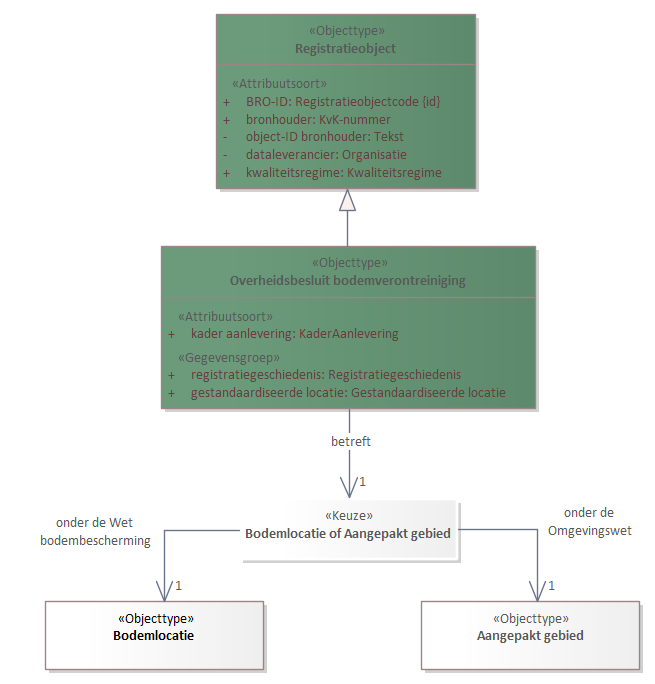
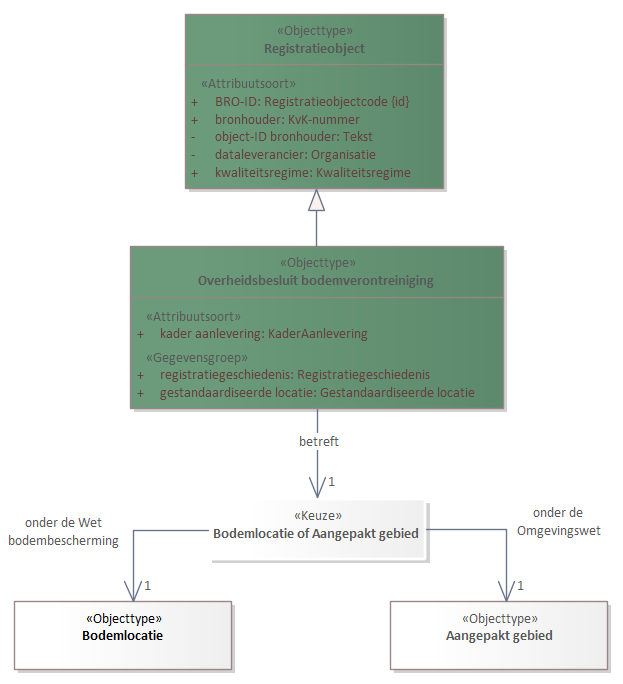
Conceptualmodel-OverheidsbesluitbodemverontreinigingSLD-1.0-3-20240925-20251210-111041

diff --git a/data/SLD-cat.msword.html b/data/SLD-cat.msword.html
@@ -6,7 +6,7 @@
                     table.list tbody tr th {background-color: #d3d3d3;}
                     table.list tbody tr th,
                     table.list tbody tr td {border: 1px solid black;}
-                </style></head><body><p>Conceptual model/Overheidsbesluit bodemverontreiniging SLD/20240925</p><p>Imvertor: Nightly-build.0</p><p>Model release: Conceptualmodel-OverheidsbesluitbodemverontreinigingSLD-1.0-3-20240925-20251210-110606</p><hr><section><h1>Artikel 1 Definitie van registratieobject, entiteiten en attributen</h1><section><h2>Registratieobject</h2><section id="global_class_Model_Registratieobject">
+                </style></head><body><p>Conceptual model/Overheidsbesluit bodemverontreiniging SLD/20240925</p><p>Imvertor: Nightly-build.0</p><p>Model release: Conceptualmodel-OverheidsbesluitbodemverontreinigingSLD-1.0-3-20240925-20251210-111041</p><hr><section><h1>Artikel 1 Definitie van registratieobject, entiteiten en attributen</h1><section><h2>Registratieobject</h2><section id="global_class_Model_Registratieobject">
                <table style="width: 100%;"><colgroup style="width: 30%;"></colgroup><colgroup style="width: 70%;"></colgroup><tbody><tr><th scope="row">Naam</th><td>Overheidsbesluit bodemverontreiniging</td></tr><tr><th scope="row">Code</th><td>SLD</td></tr><tr><th scope="row">Definitie</th><td>
                         <p>Het geheel van gegevens dat betrekking heeft op 1) het saneren en ontgraven zonder saneringsdoelstelling in bodem met een kwaliteit boven de interventiewaarde waarbij bovendien de uitgegraven grond is afgevoerd (dit zijn milieubelastende activiteiten onder het regime van de Omgevingswet) of op 2) de status van een bodemlocatie in het kader van de aanpak van bodemverontreiniging onder het regime van de Wet bodembescherming.</p>
                      </td></tr><tr><th scope="row">Populatie</th><td>
@@ -15,7 +15,7 @@ Ieder object heeft ter identificatie een eigen BRO-ID.</p>
                      </td></tr></tbody></table>
             </section></section><section><h2>Het domeinmodel</h2><section><div class="imageinfo overview"><img id="EAID_C5E26ED5_B55B_4602_9FF2_6B6AAD15ECC8" src="Images/EAID_C5E26ED5_B55B_4602_9FF2_6B6AAD15ECC8.png" usemap="#imagemap-EAID_C5E26ED5_B55B_4602_9FF2_6B6AAD15ECC8" alt="Diagram: Domeinmodel - overzicht"><map name="imagemap-EAID_C5E26ED5_B55B_4602_9FF2_6B6AAD15ECC8"><area shape="rect" alt="Nazorgmaatregel" coords="1107,1271,1380,1394" href="#global_class_Model_Nazorgmaatregel"><area shape="rect" alt="Nazorggebied" coords="560,1271,984,1499" href="#global_class_Model_Nazorggebied"><area shape="rect" alt="Evaluatieverslag" coords="1121,642,1380,764" href="#global_class_Model_Evaluatieverslag"><area shape="rect" alt="Overheidsbesluit bodemverontreiniging" coords="287,246,656,409" href="#global_class_Model_Overheidsbesluitbodemverontreiniging"><area shape="rect" alt="Verontreinigd gebied" coords="560,957,984,1226" href="#global_class_Model_Verontreinigdgebied"><area shape="rect" alt="Aangepakt gebied" coords="560,642,984,902" href="#global_class_Model_Aangepaktgebied"><area shape="rect" alt="Besluit" coords="55,957,312,1115" href="#global_class_Model_Besluit"><area shape="rect" alt="Bodemlocatie" coords="14,642,369,876" href="#global_class_Model_Bodemlocatie"><area shape="rect" alt="Registratieobject" coords="287,14,656,189" href="#global_class_Model_Registratieobject"></map><p><b>Domeinmodel</b>
                         <p></p>
-                     </p></div></section></section><section><h2>Entiteiten en attributen</h2><section><section id="global_class_Model_Overheidsbesluitbodemverontreiniging"><h3>   Overheidsbesluit bodemverontreiniging</h3><div class="imageinfo "><img id="EAID_56A4B5D4_36F1_4ce4_B3C8_685BF827F46C" src="Images/EAID_56A4B5D4_36F1_4ce4_B3C8_685BF827F46C.png" usemap="#imagemap-EAID_56A4B5D4_36F1_4ce4_B3C8_685BF827F46C" alt="Diagram: Overheidsbesluit bodemverontreiniging - detail"><map name="imagemap-EAID_56A4B5D4_36F1_4ce4_B3C8_685BF827F46C"><area shape="rect" alt="Registratieobject" coords="216,14,476,189" href="#global_class_Model_Registratieobject"><area shape="rect" alt="Aangepakt gebied" coords="421,601,640,670" href="#global_class_Model_Aangepaktgebied"><area shape="rect" alt="Bodemlocatie" coords="45,601,264,670" href="#global_class_Model_Bodemlocatie"><area shape="rect" alt="Overheidsbesluit bodemverontreiniging" coords="161,246,536,409" href="#global_class_Model_Overheidsbesluitbodemverontreiniging"></map></div><table style="width: 100%;"><colgroup style="width: 30%;"></colgroup><colgroup style="width: 70%;"></colgroup><tbody><tr><th scope="row">Type gegeven</th><td>Entiteit</td></tr><tr><th scope="row">Definitie</th><td>
+                     </p></div></section></section><section><h2>Entiteiten en attributen</h2><section><section id="global_class_Model_Overheidsbesluitbodemverontreiniging"><h3>   Overheidsbesluit bodemverontreiniging</h3><div class="imageinfo "><img id="EAID_56A4B5D4_36F1_4ce4_B3C8_685BF827F46C" src="Images/EAID_56A4B5D4_36F1_4ce4_B3C8_685BF827F46C.png" usemap="#imagemap-EAID_56A4B5D4_36F1_4ce4_B3C8_685BF827F46C" alt="Diagram: Overheidsbesluit bodemverontreiniging - detail"><map name="imagemap-EAID_56A4B5D4_36F1_4ce4_B3C8_685BF827F46C"><area shape="rect" alt="Registratieobject" coords="185,14,444,189" href="#global_class_Model_Registratieobject"><area shape="rect" alt="Aangepakt gebied" coords="390,601,608,670" href="#global_class_Model_Aangepaktgebied"><area shape="rect" alt="Bodemlocatie" coords="14,601,232,670" href="#global_class_Model_Bodemlocatie"><area shape="rect" alt="Overheidsbesluit bodemverontreiniging" coords="130,246,504,409" href="#global_class_Model_Overheidsbesluitbodemverontreiniging"></map></div><table style="width: 100%;"><colgroup style="width: 30%;"></colgroup><colgroup style="width: 70%;"></colgroup><tbody><tr><th scope="row">Type gegeven</th><td>Entiteit</td></tr><tr><th scope="row">Definitie</th><td>
                         <p>De gegevens die het registratieobject identificeren en inzicht geven in de totstandkoming en context van het object voorafgaand aan opname in de registratie ondergrond.</p>
                      </td></tr><tr><th scope="row">Toelichting</th><td>
                         <p>De gegevens die alle registratieobjecten binnen de registratie ondergrond gemeenschappelijk hebben, zijn in het domeinmodel gegroepeerd in de entiteit Registratieobject.</p>

diff --git a/data/SLD-cat.respec.html b/data/SLD-cat.respec.html
@@ -7,7 +7,7 @@ Ieder object heeft ter identificatie een eigen BRO-ID.</p>
                      </td></tr></tbody></table>
             </section><section><h2>Het domeinmodel   </h2><div class="imageinfo overview"><img id="EAID_C5E26ED5_B55B_4602_9FF2_6B6AAD15ECC8" src="data/Images/EAID_C5E26ED5_B55B_4602_9FF2_6B6AAD15ECC8.png" usemap="#imagemap-EAID_C5E26ED5_B55B_4602_9FF2_6B6AAD15ECC8" alt="Diagram: Domeinmodel - overzicht"><map name="imagemap-EAID_C5E26ED5_B55B_4602_9FF2_6B6AAD15ECC8"><area shape="rect" alt="Nazorgmaatregel" coords="1107,1271,1380,1394" href="#global_class_Model_Nazorgmaatregel"><area shape="rect" alt="Nazorggebied" coords="560,1271,984,1499" href="#global_class_Model_Nazorggebied"><area shape="rect" alt="Evaluatieverslag" coords="1121,642,1380,764" href="#global_class_Model_Evaluatieverslag"><area shape="rect" alt="Overheidsbesluit bodemverontreiniging" coords="287,246,656,409" href="#global_class_Model_Overheidsbesluitbodemverontreiniging"><area shape="rect" alt="Verontreinigd gebied" coords="560,957,984,1226" href="#global_class_Model_Verontreinigdgebied"><area shape="rect" alt="Aangepakt gebied" coords="560,642,984,902" href="#global_class_Model_Aangepaktgebied"><area shape="rect" alt="Besluit" coords="55,957,312,1115" href="#global_class_Model_Besluit"><area shape="rect" alt="Bodemlocatie" coords="14,642,369,876" href="#global_class_Model_Bodemlocatie"><area shape="rect" alt="Registratieobject" coords="287,14,656,189" href="#global_class_Model_Registratieobject"></map><p><b>Domeinmodel</b>
                         <p></p>
-                     </p></div></section><section><h2>Entiteittypen en attributen   </h2><section id="global_class_Model_Overheidsbesluitbodemverontreiniging"><h3>   Overheidsbesluit bodemverontreiniging</h3><div class="imageinfo "><img id="EAID_56A4B5D4_36F1_4ce4_B3C8_685BF827F46C" src="data/Images/EAID_56A4B5D4_36F1_4ce4_B3C8_685BF827F46C.png" usemap="#imagemap-EAID_56A4B5D4_36F1_4ce4_B3C8_685BF827F46C" alt="Diagram: Overheidsbesluit bodemverontreiniging - detail"><map name="imagemap-EAID_56A4B5D4_36F1_4ce4_B3C8_685BF827F46C"><area shape="rect" alt="Registratieobject" coords="216,14,476,189" href="#global_class_Model_Registratieobject"><area shape="rect" alt="Aangepakt gebied" coords="421,601,640,670" href="#global_class_Model_Aangepaktgebied"><area shape="rect" alt="Bodemlocatie" coords="45,601,264,670" href="#global_class_Model_Bodemlocatie"><area shape="rect" alt="Overheidsbesluit bodemverontreiniging" coords="161,246,536,409" href="#global_class_Model_Overheidsbesluitbodemverontreiniging"></map></div><table style="width: 100%;"><colgroup style="width: 30%;"></colgroup><colgroup style="width: 70%;"></colgroup><tbody><tr><th scope="row">Type gegeven</th><td>Entiteit</td></tr><tr><th scope="row">Definitie</th><td>
+                     </p></div></section><section><h2>Entiteittypen en attributen   </h2><section id="global_class_Model_Overheidsbesluitbodemverontreiniging"><h3>   Overheidsbesluit bodemverontreiniging</h3><div class="imageinfo "><img id="EAID_56A4B5D4_36F1_4ce4_B3C8_685BF827F46C" src="data/Images/EAID_56A4B5D4_36F1_4ce4_B3C8_685BF827F46C.png" usemap="#imagemap-EAID_56A4B5D4_36F1_4ce4_B3C8_685BF827F46C" alt="Diagram: Overheidsbesluit bodemverontreiniging - detail"><map name="imagemap-EAID_56A4B5D4_36F1_4ce4_B3C8_685BF827F46C"><area shape="rect" alt="Registratieobject" coords="185,14,444,189" href="#global_class_Model_Registratieobject"><area shape="rect" alt="Aangepakt gebied" coords="390,601,608,670" href="#global_class_Model_Aangepaktgebied"><area shape="rect" alt="Bodemlocatie" coords="14,601,232,670" href="#global_class_Model_Bodemlocatie"><area shape="rect" alt="Overheidsbesluit bodemverontreiniging" coords="130,246,504,409" href="#global_class_Model_Overheidsbesluitbodemverontreiniging"></map></div><table style="width: 100%;"><colgroup style="width: 30%;"></colgroup><colgroup style="width: 70%;"></colgroup><tbody><tr><th scope="row">Type gegeven</th><td>Entiteit</td></tr><tr><th scope="row">Definitie</th><td>
                         <p>De gegevens die het registratieobject identificeren en inzicht geven in de totstandkoming en context van het object voorafgaand aan opname in de registratie ondergrond.</p>
                      </td></tr><tr><th scope="row">Toelichting</th><td>
                         <p>De gegevens die alle registratieobjecten binnen de registratie ondergrond gemeenschappelijk hebben, zijn in het domeinmodel gegroepeerd in de entiteit Registratieobject.</p>
